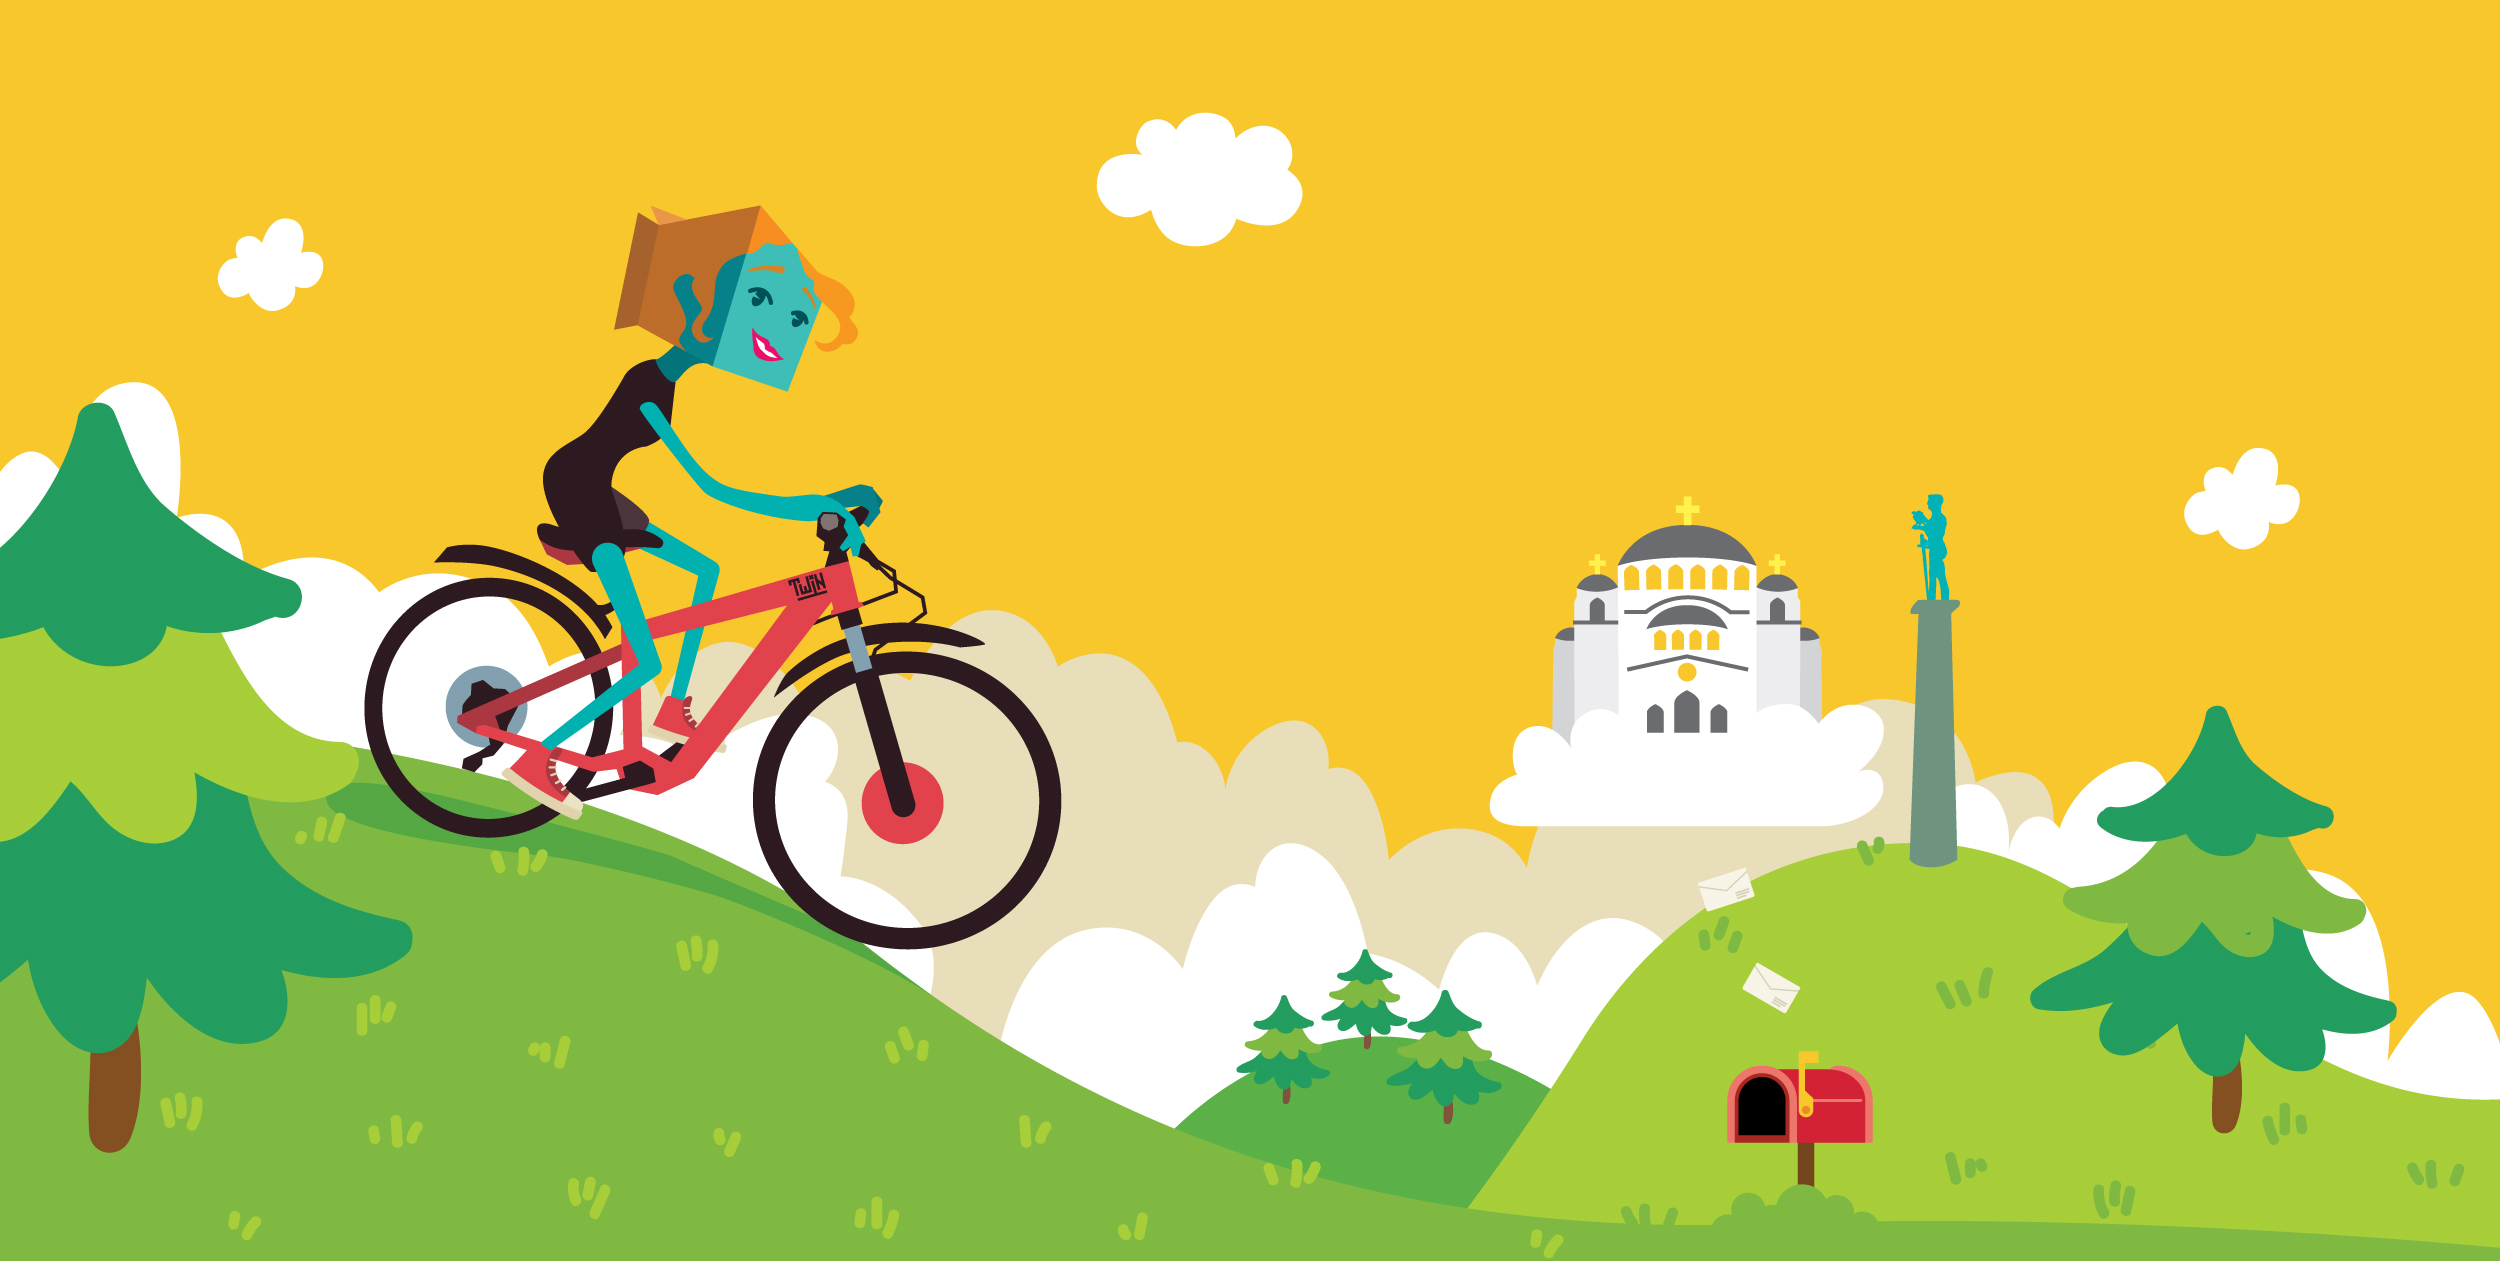
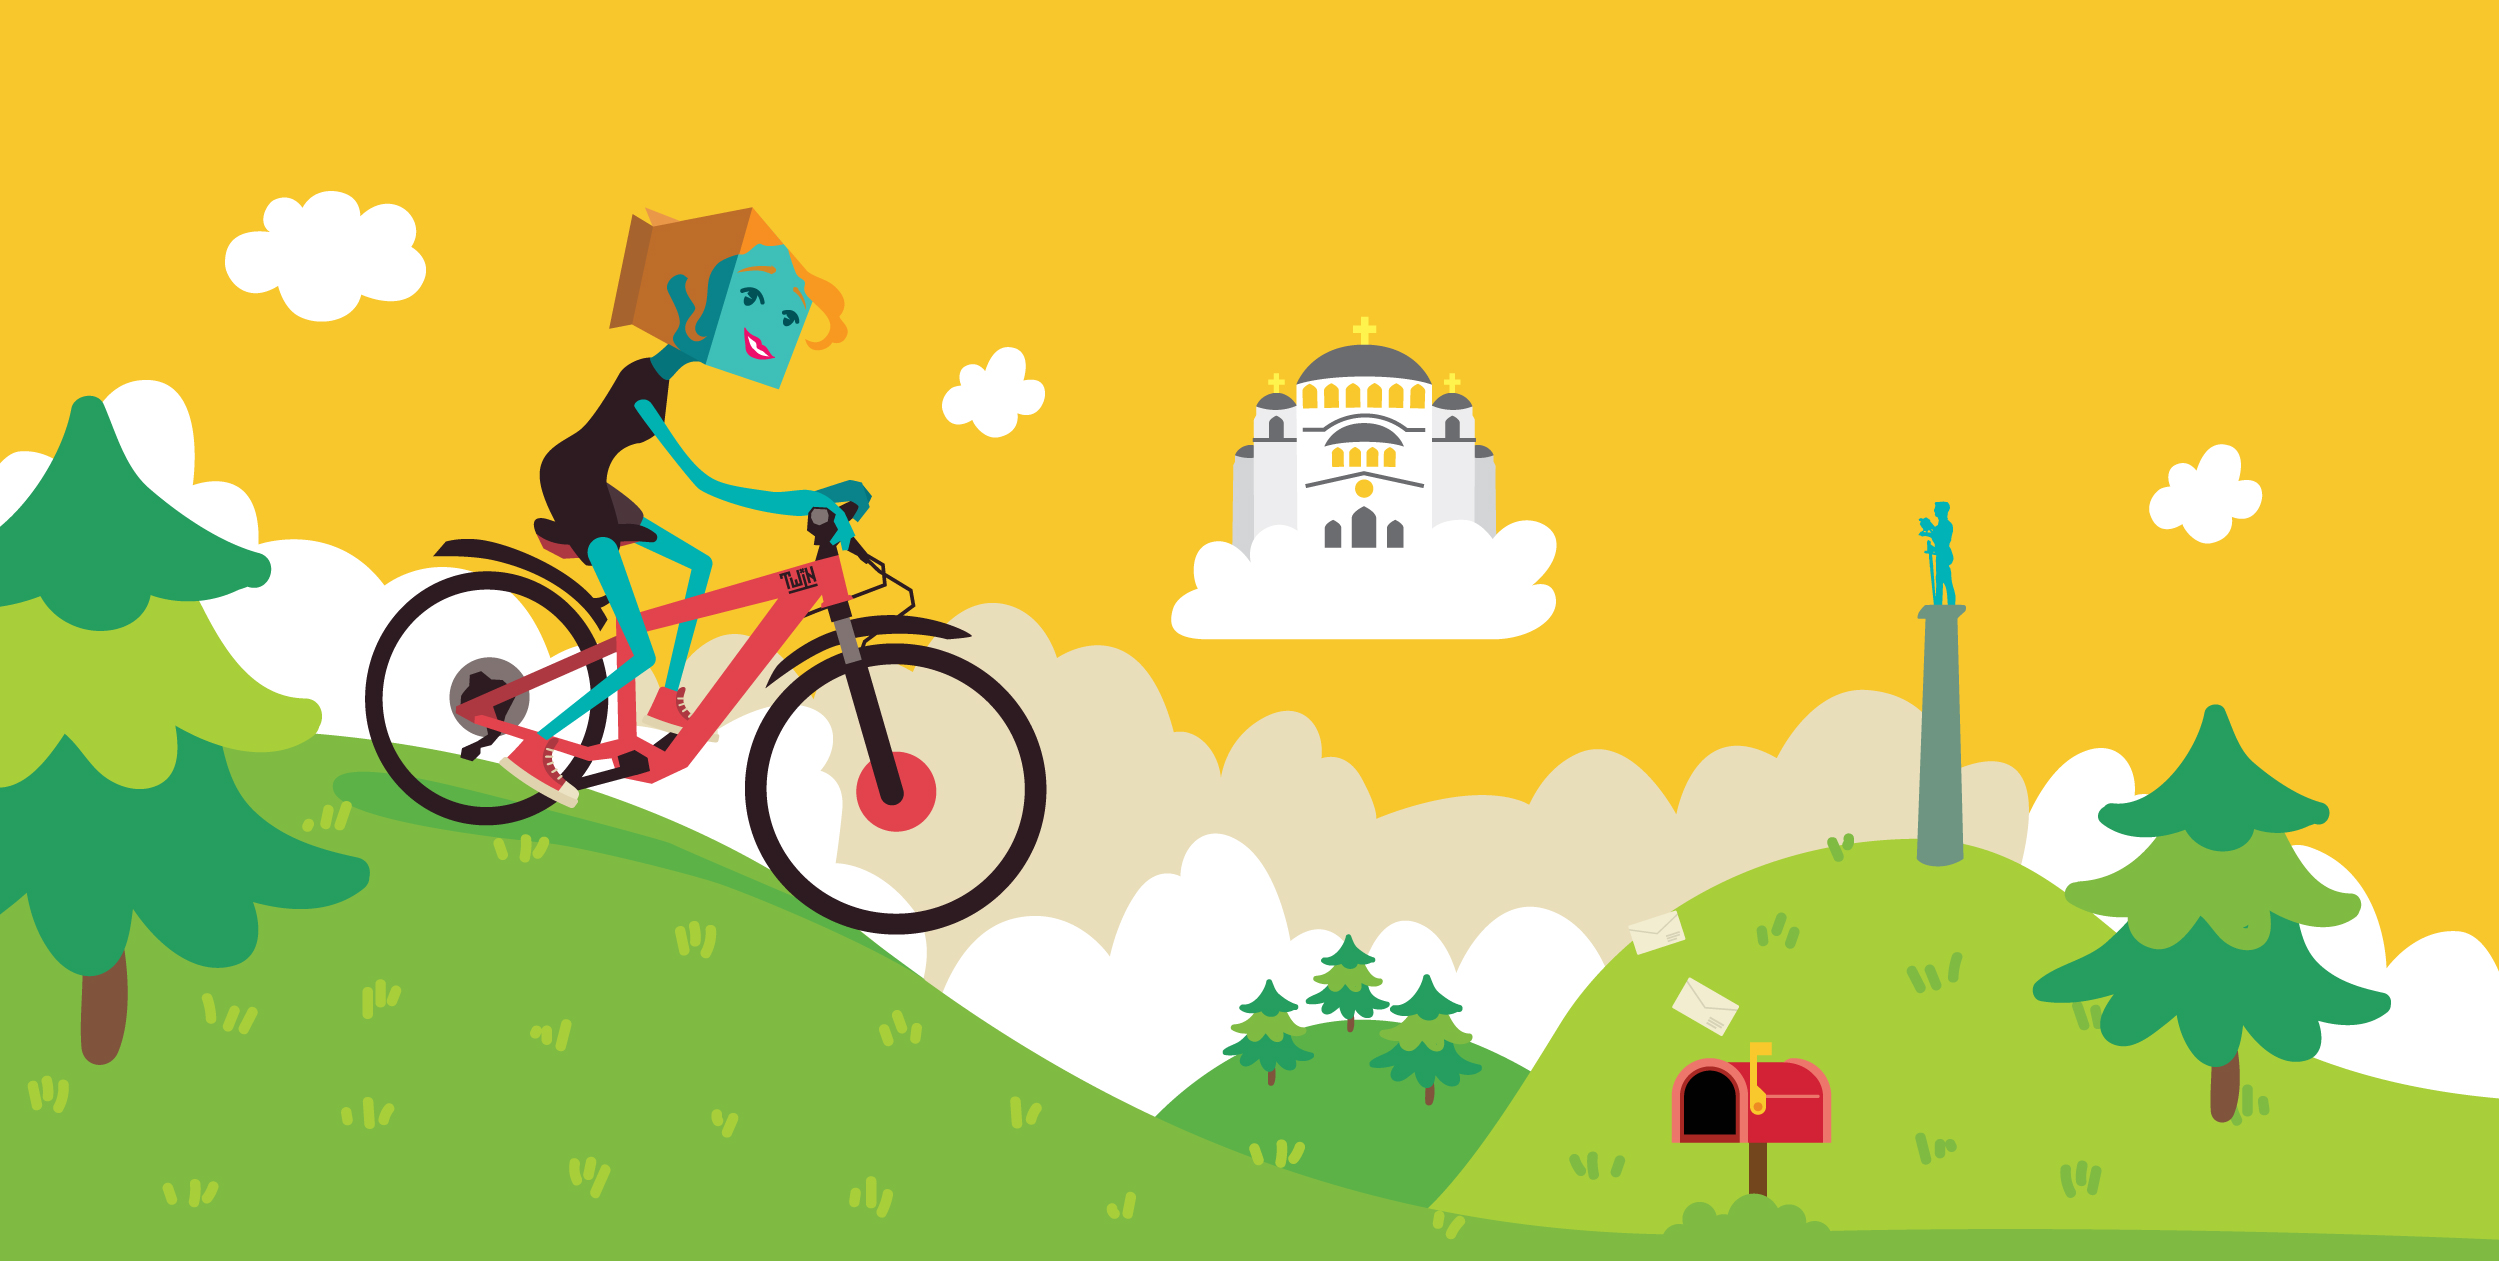
16 August izmene, futer itd

diff --git a/index.html b/index.html
@@ -9,6 +9,9 @@
 <script type="text/javascript" src="slick/jquery-3.3.1.min.js"></script>
 <script type="text/javascript" src="slick/slick.js"></script>
 <link rel="stylesheet" type="text/css" href="slick/slick.css"/>
+<meta name="description" content="The portfolio website of Ana Baranjin, a graphic designer, web designer, illustration, and surface/pattern designer"/>
+<meta name="keywords" content="Ana Baranjin, Baranjin, design, graphic design, graphic, illustration, freelancer, soloprenuer, web, website, webdesign, web design, icon, icon design, stickers, art, freelance, branding, UX"/>
+<meta name="author" content="Ana Baranjin"/>
 </head>
 
 <body>
@@ -62,7 +65,7 @@ I will get you squared away, <br>
 because that is what I do!<br>
 </h3>
 </div>
-<p id="colorstrip">For more work check out <a href="https://dribbble.com/Twin"target="_blank">dribbble</a> or <a href="https://www.behance.net/Ana_Twin"target="_blank">Behance</a>
+<p id="colorstrip"></p>
 </section>
 
 <section id="diving">
@@ -82,8 +85,8 @@ because that is what I do!<br>
 	<div class="container">
 	<h2>Climbing <span>these mountain tops</span></h2>
 
-	  </style>
 
+<!---
 	  <p id="quotes">"Working with Ana is such a fun process! I've worked with her on multiple projects and just by giving her a few ideas about what I wanted, she was able to create the perfect design."<br><br> -Grass Powered Poultry and Meats</p>
 	  <script type="text/javascript" id="quotes">
 	  var quote=new Array();
@@ -91,7 +94,7 @@ because that is what I do!<br>
 		quote[1]='"Ana\'s designs were clear, elegant and eye-catching from the first design she provided. Every feedback was perfectly taken care of, and she also had her own oppinions which she shared."<br><br> -YelloSpace';
 		quote[2]='"Ana\'s educational background in art and business makes her a one of a kind graphic designer who not only makes great designs, but at the same time has a customer in mind. I had a pretty demanding business logo design for Ana and she delivered an excellent work."<br><br> -Mind Central';
 		quote[3]='"Ana instantly picked up on the themestylefeel I wanted for my business. Every new creation was a surprise, yet perfectly melded with the rest. Even when I don\’t know what I\’m looking for, but I somehow need it the next day, she always seems to, not only find it, but also meet the impossible deadlines I often pose…even in a different time zone! When I explain to her exactly what I need, she follows through flawlessly with my requests."<br><br>	-Pocket of Sunshine Farms';
-	  var speed=9000;    /*this is the time in milliseconds adjust to suit*/
+	  var speed=10000;    /*this is the time in milliseconds adjust to suit*/
 	  var q=0;
 	  function showQuote() {
 
@@ -105,6 +108,75 @@ because that is what I do!<br>
 	  </script>
 
 	</div>
+  --->
+  <div class="slideshow-container">
+<!--    <a class="prev" onclick="plusSlides(-1)">❮</a>-->
+  <div class="mySlides">
+    <q>Working with Ana is such a fun process! I've worked with her on multiple projects and just by giving her a few ideas about what I wanted, she was able to create the perfect design.</q>
+    <p class="author">- Grass Powered Poultry and Meats</p>
+  </div>
+
+  <div class="mySlides">
+    <q>Ana took the time to figure me and my brand out and delivered better than I could have imagined! Will absolutely be working with her on new projects and wouldn't hesitate to recommend her to anyone! Really great designer with great communication.</q>
+    <p class="author">- Queens of Kush</p>
+  </div>
+
+  <div class="mySlides">
+    <q>Ana's designs were clear, elegant and eye-catching from the first design she provided. Every feedback was perfectly taken care of, and she also had her own oppinions which she shared.</q>
+    <p class="author">- YelloSpace</p>
+  </div>
+
+  <div class="mySlides">
+    <q>Ana's educational background in art and business makes her a one of a kind graphic designer who not only makes great designs, but at the same time has a customer in mind. I had a pretty demanding business logo design for Ana and she delivered an excellent work.</q>
+    <p class="author">- Mind Central</p>
+  </div>
+
+  <div class="mySlides">
+    <q>Ana instantly picked up on the themestylefeel I wanted for my business. Every new creation was a surprise, yet perfectly melded with the rest. Even when I don\’t know what I’m looking for, but I somehow need it the next day, she always seems to, not only find it, but also meet the impossible deadlines I often pose…even in a different time zone! When I explain to her exactly what I need, she follows through flawlessly with my requests.</q>
+    <p class="author">- Pocket of Sunshine Farms</p>
+  </div>
+
+
+<!--  <a class="next" onclick="plusSlides(1)">❯</a>-->
+
+  </div>
+
+<div class="dot-container">
+<span class="dot" onclick="currentSlide(1)"></span>
+<span class="dot" onclick="currentSlide(2)"></span>
+<span class="dot" onclick="currentSlide(3)"></span>
+<span class="dot" onclick="currentSlide(4)"></span>
+<span class="dot" onclick="currentSlide(5)"></span>
+</div>
+
+<script>
+var slideIndex = 1;
+showSlides(slideIndex);
+
+function plusSlides(n) {
+showSlides(slideIndex += n);
+}
+
+function currentSlide(n) {
+showSlides(slideIndex = n);
+}
+
+function showSlides(n) {
+var i;
+var slides = document.getElementsByClassName("mySlides");
+var dots = document.getElementsByClassName("dot");
+if (n > slides.length) {slideIndex = 1}
+if (n < 1) {slideIndex = slides.length}
+for (i = 0; i < slides.length; i++) {
+    slides[i].style.display = "none";
+}
+for (i = 0; i < dots.length; i++) {
+    dots[i].className = dots[i].className.replace(" active", "");
+}
+slides[slideIndex-1].style.display = "block";
+dots[slideIndex-1].className += " active";
+}
+</script>
   </div>
 </section>
 
@@ -122,11 +194,7 @@ because that is what I do!<br>
 <div><img src="images/gallery-home/6.jpg"></div>
 </figure>
 </div>
-  <span class="dot"></span>
-  <span class="dot"></span>
-  <span class="dot"></span>
-  <span class="dot"></span>
-  <span class="dot"></span>
+
 
 <script type="text/javascript">
 $(document).ready(function(){
@@ -239,7 +307,26 @@ $(document).ready(function(){
 
 
 <footer>
-&copy;2017 Ana Baranjin. All rights reserved.
+  <a href="index.html" style="float:left;padding-left: 40px; padding-top: 4%;"><img src="images/twin-logo2.png" height="80"></img></a>
+
+
+
+  <div id="footer-social-icons" style="padding-top: 3%;">
+    <a href="https://www.linkedin.com/in/anabaranjin/"style="float:right;"><img src="images/social/linkedin.png"height="40"></img></a>
+    <a href="https://www.pinterest.com/twintowin/"style="float:right;"><img src="images/social/pinterest.png"height="40"></img></a>
+    <a href="https://behance.net/Ana_Twin"style="float:right;"><img src="images/social/behance.png"height="40"></img></a>
+    <a href="https://dribbble.com/Twin" style="float:right;"><img src="images/social/dribbble.png"height="40"></img></a>
+  </div>
+
+  <ul id="footer-nav">
+    <li><a name="top"href="portfolio.html"><b>PORTFOLIO</b></a></li>
+    <li><a href="about.html"><b>ABOUT</b></a></li>
+    <li><a href="contact.html"><b>CONTACT</b></a></li>
+  <li id="hire"><a href="mailto:ana.baranjin@gmail.com"><b>HIRE ME</b></a></li>
+  </ul>
+
+
+<p>&copy;2017 Ana Baranjin. All rights reserved.</p>
 </footer>
 
 </body>

diff --git a/style.css b/style.css
@@ -279,12 +279,6 @@ padding-bottom: 4px;
     color: #025358;
 }
 
-#colorstrip a:hover{
-  color: #F9C82C;
-  transition: 0.3s;
-}
-#colorstrip a{
-  color: #3FBFB8;}
 
 #welcome-page p{
   padding-bottom: 140px;
@@ -371,7 +365,7 @@ padding-bottom: 4px;
   text-align: center;
 }
 #quotes {
-padding-top: 50px;
+padding-top: 0px;
   font-family: helvetica;
   color: white;
   margin-left: auto;
@@ -381,6 +375,76 @@ padding-top: 50px;
   width: 50%;
   font-weight: 100;
 }
+/* Slides */
+.slideshow-container{
+  width: 80%;
+  text-align: center;
+  padding: 0;
+  margin: 0;
+}
+.mySlides {
+  display: none;
+  padding: 80px;
+  text-align: center;
+}
+.mySlides q{
+  color: white;
+}
+
+/* Next & previous buttons */
+.prev, .next {
+  cursor: pointer;
+  position: absolute;
+  top: 300%;
+  width: auto;
+  padding: 16px;
+  color: #F9C82C;
+  font-weight: bold;
+  font-size: 20px;
+  border-radius: 3px 0px 0px 3px;
+  user-select: none;
+  margin-left: -20%;
+}
+
+/* Position the "next button" to the right */
+.next {
+  position: absolute;
+  right: 32%;
+  border-radius: 0px 3px 3px 0px;
+}
+
+/* On hover, add a black background color with a little bit see-through */
+.prev:hover, .next:hover {
+  background-color: rgba(0,0,0,0.8);
+  color: white;
+}
+
+/* The dot/bullet/indicator container */
+.dot-container {
+    text-align: center;
+      margin-top: -70px;
+}
+
+/* The dots/bullets/indicators */
+.dot {
+  cursor: pointer;
+  height: 15px;
+  width: 15px;
+  margin: 0 2px;
+  background-color: #F9C82C;
+  border-radius: 50%;
+  display: inline-block;
+  transition: background-color 0.9s ease;
+}
+
+/* Add a background color to the active DOT CIRCLE */
+.active, .dot:hover {
+  background-color: #70c8b7;
+}
+/* Add a blue color to the author */
+.author {color: cornflowerblue;}
+
+
 
 /* HOME SKIING DESKTOP */
 #skiing{height: 750px;
@@ -416,7 +480,7 @@ div#slider figure {
 #cycle .work-process-mobile{
 	display: none;
 }
-#cycle{height: 400px;  background-color: #F8C72C; text-align: center;
+#cycle{height: 280px;  background-color: #F8C72C; text-align: center;
 }
 #cycle h2{
   padding-top: 30px;
@@ -457,8 +521,8 @@ div#slider figure {
 #belgrade{
   width: 24%;
   float: right;
-  padding-top: 70px;
-  margin-bottom: 420px;
+  padding-top: 50px;
+  margin-bottom: 300px;
 }
 .belgrade{
    animation: MoveUpDown 4s linear infinite;
@@ -506,7 +570,7 @@ div#slider figure {
           background-image: url(images/contact.png);
 }
 .mail{
-margin-top: 700px;
+margin-top: 555px;
 margin-right: 60px;
 float: right;
 animation: mymove 5s infinite;
@@ -525,13 +589,46 @@ position: relative;
 /* FOOTER DESKTOP*/
 
 footer{
-  padding: 15px;
-  color: white;
+  height: 200px;
+  background-color: #404048;
+
+}
+footer p{
+  margin-top: 60px;
+  color: #a8a8a8;
   text-align: center;
-  background-color: #7FB942;
   font-family: helvetica;
   font-weight: lighter;
+  margin-bottom: 30px;
+  line-height: 0;
+  font-size: 1em;
 }
+#footer-social-icons a{
+  padding-right: 10px;
+  padding-top: 3%;
+}
+#footer-social-icons{
+  padding-right: 50px;
+}
+#footer-nav{
+  padding-top: 2%;
+  text-align: center;
+}
+#footer-nav a{
+  text-decoration: none;
+  font-size: 16px;
+}
+#footer-nav ul{
+  margin: 0;
+  padding: 0;
+  text-align: center;
+}
+#footer-nav li{
+  display: inline;
+  padding: 0 25px 0 25px;
+  font-family: helvetica;
+}
+
 
 .contact-info{
   height: 2200px;
